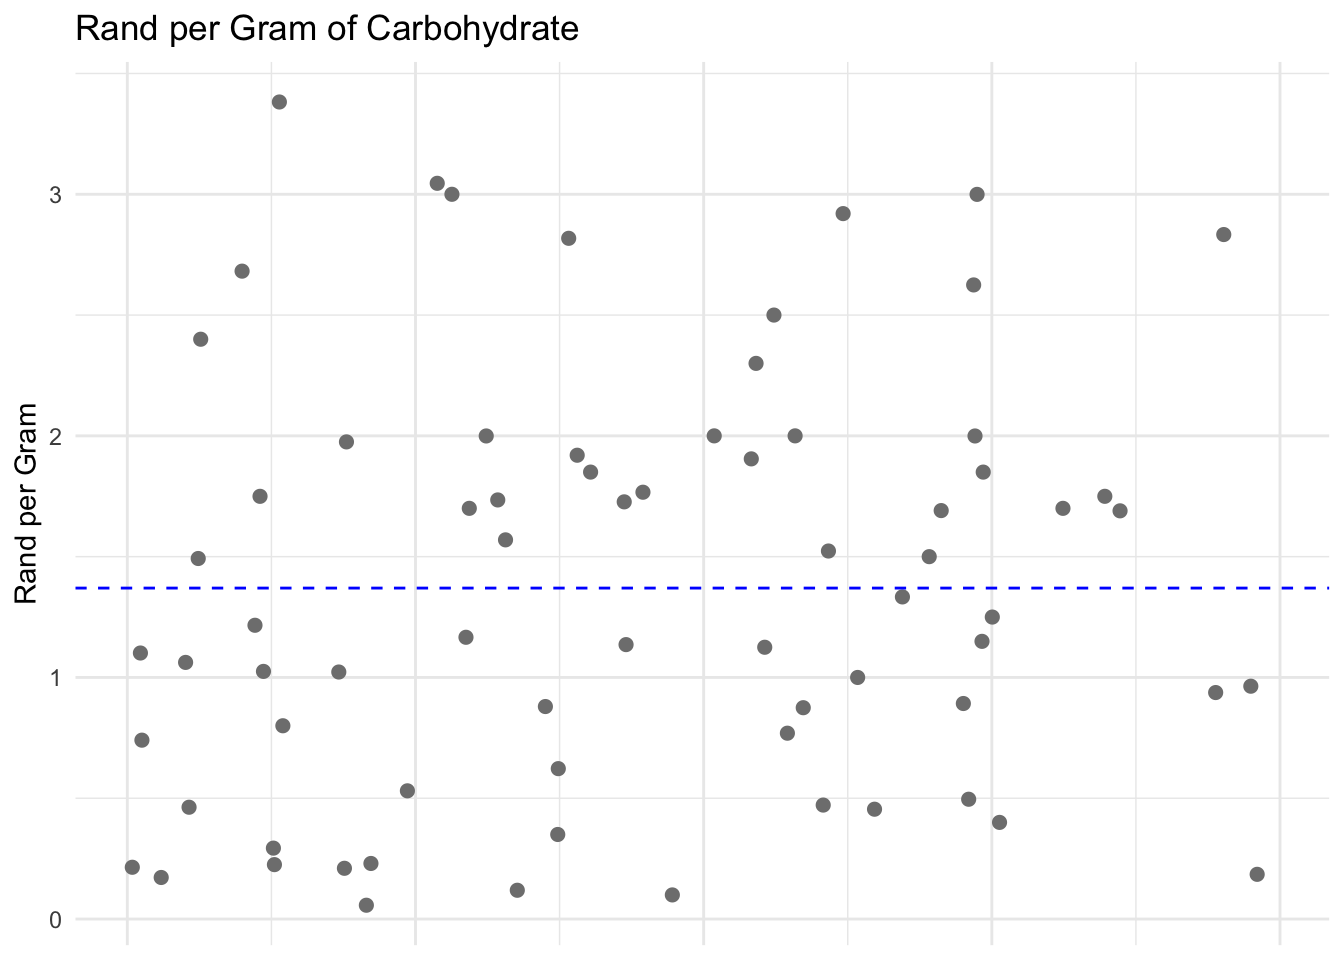
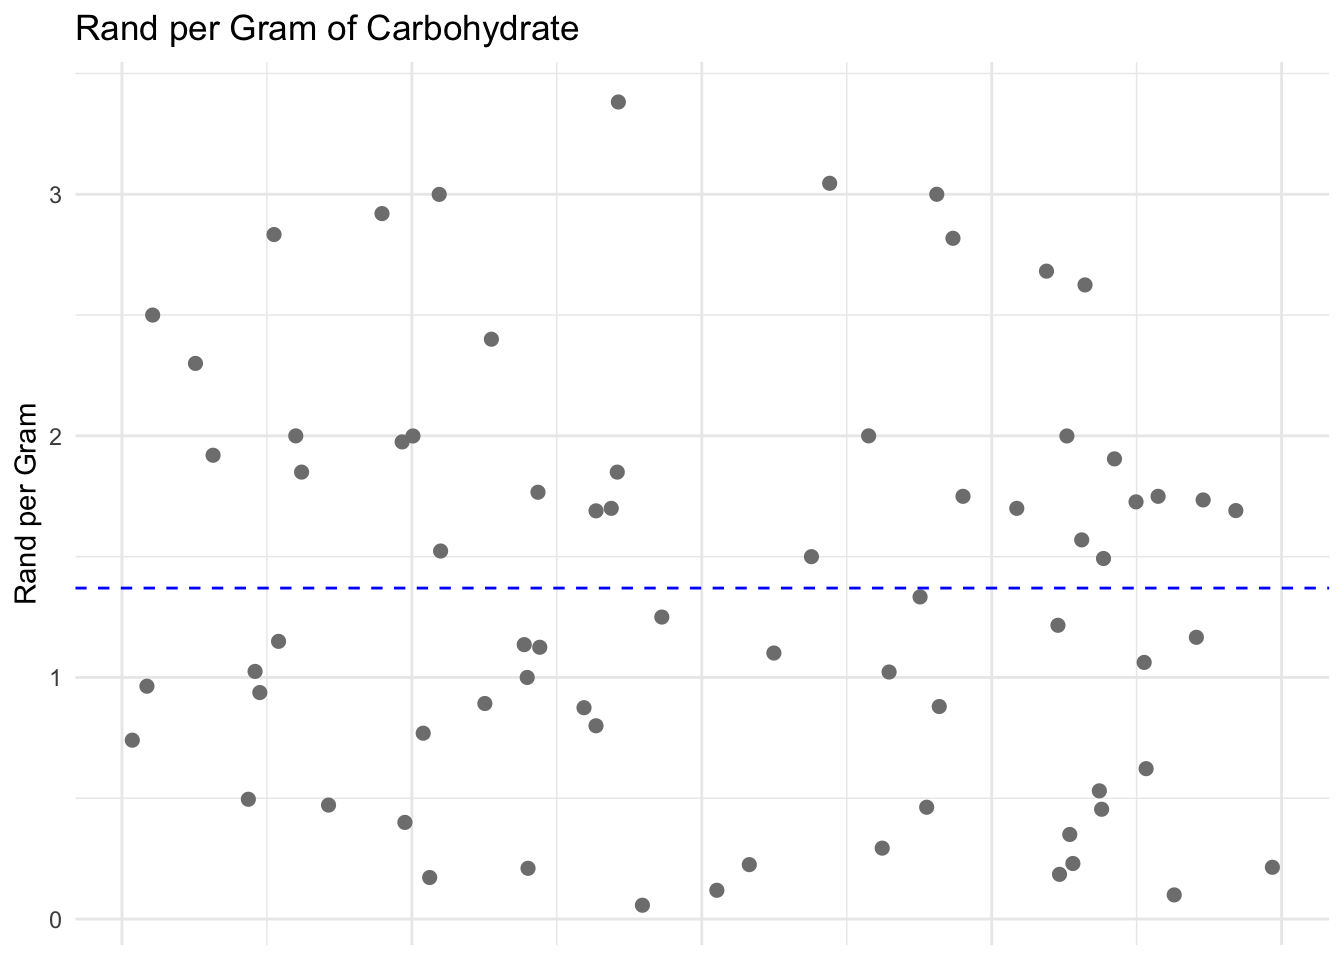
Pilot proportions calculator + deploy script fixes

diff --git a/_site/tools/index.html b/_site/tools/index.html
@@ -272,7 +272,7 @@ window.Quarto = {
 
 <div class="quarto-listing quarto-listing-container-default" id="listing-listing">
 <div class="list quarto-listing-default">
-<div class="quarto-post image-right" data-index="0" data-categories="c2FtcGxlJTIwc2l6ZSUyQ3Byb3BvcnRpb25zJTJDcmF0ZXM=" data-listing-date-sort="1778104800000" data-listing-file-modified-sort="1778151560157" data-listing-date-modified-sort="NaN" data-listing-reading-time-sort="21" data-listing-word-count-sort="4194">
+<div class="quarto-post image-right" data-index="0" data-categories="c2FtcGxlJTIwc2l6ZSUyQ3Byb3BvcnRpb25zJTJDcmF0ZXM=" data-listing-date-sort="1778104800000" data-listing-file-modified-sort="1778158659189" data-listing-date-modified-sort="NaN" data-listing-reading-time-sort="21" data-listing-word-count-sort="4194">
 <div class="thumbnail"><a href="../tools/sample_size_proportions.html" class="no-external">
 
 <div class="listing-item-img-placeholder card-img-top" >&nbsp;</div>
@@ -294,7 +294,7 @@ May 7, 2026
 </a>
 </div>
 </div>
-<div class="quarto-post image-right" data-index="1" data-categories="c3RhdGlzdGljcyUyQ3NoaW55JTJDYmxvZw==" data-listing-date-sort="1740002400000" data-listing-file-modified-sort="1754290150000" data-listing-date-modified-sort="NaN" data-listing-reading-time-sort="10" data-listing-word-count-sort="1960">
+<div class="quarto-post image-right" data-index="1" data-categories="c3RhdGlzdGljcyUyQ3NoaW55JTJDYmxvZw==" data-listing-date-sort="1740002400000" data-listing-file-modified-sort="1778158807704" data-listing-date-modified-sort="NaN" data-listing-reading-time-sort="10" data-listing-word-count-sort="1960">
 <div class="thumbnail"><a href="../tools/shiny_sample_size_diagnostics_sensitivity_specificity.html" class="no-external">
 
 <div class="listing-item-img-placeholder card-img-top" >&nbsp;</div>
@@ -316,7 +316,7 @@ Feb 20, 2025
 </a>
 </div>
 </div>
-<div class="quarto-post image-right" data-index="2" data-categories="c3RhdGlzdGljcyUyQ3NoaW55JTJDYmxvZw==" data-listing-date-sort="1740002400000" data-listing-file-modified-sort="1743156406000" data-listing-date-modified-sort="NaN" data-listing-reading-time-sort="6" data-listing-word-count-sort="1012">
+<div class="quarto-post image-right" data-index="2" data-categories="c3RhdGlzdGljcyUyQ3NoaW55JTJDYmxvZw==" data-listing-date-sort="1740002400000" data-listing-file-modified-sort="1778158807705" data-listing-date-modified-sort="NaN" data-listing-reading-time-sort="6" data-listing-word-count-sort="1012">
 <div class="thumbnail"><a href="../tools/shiny_sample_size_log_regression.html" class="no-external">
 
 <div class="listing-item-img-placeholder card-img-top" >&nbsp;</div>
@@ -338,7 +338,7 @@ Feb 20, 2025
 </a>
 </div>
 </div>
-<div class="quarto-post image-right" data-index="3" data-categories="c3RhdGlzdGljcyUyQ3NoaW55JTJDYmxvZw==" data-listing-date-sort="1740002400000" data-listing-file-modified-sort="1741009024000" data-listing-date-modified-sort="NaN" data-listing-reading-time-sort="14" data-listing-word-count-sort="2736">
+<div class="quarto-post image-right" data-index="3" data-categories="c3RhdGlzdGljcyUyQ3NoaW55JTJDYmxvZw==" data-listing-date-sort="1740002400000" data-listing-file-modified-sort="1778158807700" data-listing-date-modified-sort="NaN" data-listing-reading-time-sort="14" data-listing-word-count-sort="2736">
 <div class="thumbnail"><a href="../tools/shiny_sample_size_prevalence.html" class="no-external">
 
 <div class="listing-item-img-placeholder card-img-top" >&nbsp;</div>
@@ -360,7 +360,7 @@ Feb 20, 2025
 </a>
 </div>
 </div>
-<div class="quarto-post image-right" data-index="4" data-categories="c3RhdGlzdGljcyUyQ3R0ZXN0JTJDc2FtcGxlc2l6ZQ==" data-listing-date-sort="1740002400000" data-listing-file-modified-sort="1763990333000" data-listing-date-modified-sort="NaN" data-listing-reading-time-sort="8" data-listing-word-count-sort="1440">
+<div class="quarto-post image-right" data-index="4" data-categories="c3RhdGlzdGljcyUyQ3R0ZXN0JTJDc2FtcGxlc2l6ZQ==" data-listing-date-sort="1740002400000" data-listing-file-modified-sort="1778158807691" data-listing-date-modified-sort="NaN" data-listing-reading-time-sort="8" data-listing-word-count-sort="1440">
 <div class="thumbnail"><a href="../tools/shiny_sample_size_ttest.html" class="no-external">
 
 <div class="listing-item-img-placeholder card-img-top" >&nbsp;</div>